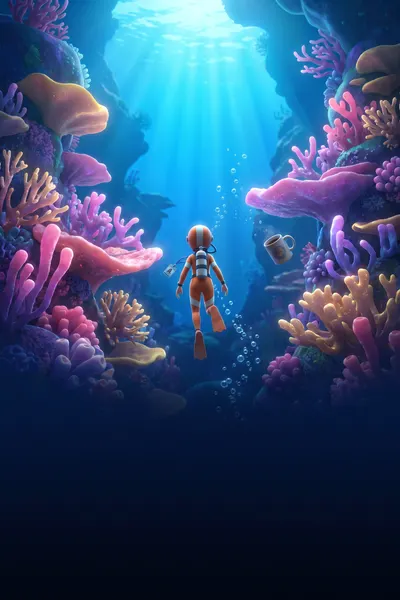
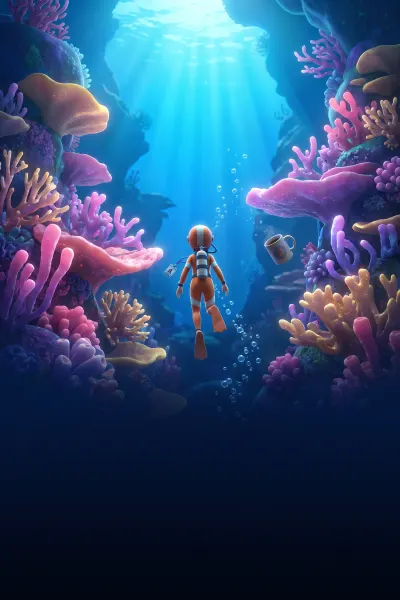
Give each premiere its own room from its poster
Every film was revealed on the same brown stage. Each premiere now sits on
a pre-blurred colour wash of its own poster, with an accent colour driving
the title chip, star name, poster glow, searchlights and projector beam.
scripts/poster-assets.mjs derives thumbnails, backdrops and accents, so a
redone poster only needs the script re-run.

diff --git a/src/app/screen/screen.css b/src/app/screen/screen.css
@@ -336,13 +336,36 @@
 
 /* ------------------------------------------------------------- premiere */
 .premiere { position: absolute; inset: 0; background: radial-gradient(ellipse at 30% 50%, #2a1512, var(--night) 70%); }
+.ambient {
+  position: absolute;
+  inset: -6%;
+  background-size: cover;
+  background-position: center;
+  animation: ambient-in 2.4s 1.7s ease both, ambient-drift 26s 1.7s ease-in-out infinite alternate;
+}
+/* keeps the billing legible over any palette: darker on the text side and at the edges */
+.ambient::after {
+  content: "";
+  position: absolute;
+  inset: 0;
+  background:
+    linear-gradient(90deg, rgba(8, 5, 4, 0.2) 0%, rgba(8, 5, 4, 0.45) 38%, rgba(8, 5, 4, 0.6) 100%),
+    radial-gradient(ellipse at 50% 50%, transparent 45%, rgba(0, 0, 0, 0.5) 100%);
+}
+@keyframes ambient-in {
+  from { opacity: 0; }
+}
+@keyframes ambient-drift {
+  from { transform: scale(1) translate(0, 0); }
+  to { transform: scale(1.08) translate(-1.5%, 1%); }
+}
 /* premiere-night searchlights behind everything */
 .spot {
   position: absolute;
   bottom: -30%;
   width: 20%;
   height: 170%;
-  background: linear-gradient(0deg, rgba(244, 210, 122, 0.3), transparent 75%);
+  background: linear-gradient(0deg, color-mix(in srgb, var(--accent, #f4d27a) 32%, transparent), transparent 75%);
   transform-origin: 50% 100%;
   filter: blur(14px);
   mix-blend-mode: screen;
@@ -404,7 +427,7 @@
   border-radius: 14px;
   overflow: hidden;
   background: var(--velvet);
-  box-shadow: 0 50px 120px rgba(0, 0, 0, 0.8), 0 0 0 6px var(--gold), 0 0 90px rgba(226, 181, 68, 0.35);
+  box-shadow: 0 50px 120px rgba(0, 0, 0, 0.8), 0 0 0 6px var(--gold), 0 0 110px color-mix(in srgb, var(--accent, var(--gold)) 45%, transparent);
   animation: poster-in 1.3s 2s cubic-bezier(0.15, 0.9, 0.25, 1) both, poster-float 9s 3.3s ease-in-out infinite alternate;
 }
 @keyframes poster-float {
@@ -449,11 +472,11 @@
 @keyframes bill-in {
   from { opacity: 0; transform: translateY(50px); }
 }
-.billing .after { animation-delay: 2.7s; display: inline-block; font-family: var(--display); text-transform: uppercase; letter-spacing: 0.22em; font-size: 28px; font-weight: 700; color: var(--night); background: var(--gold); padding: 6px 18px; border-radius: 6px; }
+.billing .after { animation-delay: 2.7s; display: inline-block; font-family: var(--display); text-transform: uppercase; letter-spacing: 0.22em; font-size: 28px; font-weight: 700; color: var(--night); background: var(--accent, var(--gold)); padding: 6px 18px; border-radius: 6px; }
 .billing h2 { animation: none; margin: 30px 0 0; font-family: var(--display); font-weight: 900; text-transform: uppercase; font-size: 150px; line-height: 0.88; color: var(--cream); text-shadow: 0 8px 0 rgba(0, 0, 0, 0.45); text-wrap: balance; }
 .billing .tagline { animation-delay: 3.4s; margin: 26px 0 0; font-style: italic; font-size: 44px; line-height: 1.2; color: var(--cream); max-width: 900px; }
 .billing .starring { animation-delay: 3.7s; margin: 36px 0 0; font-style: italic; font-size: 52px; color: var(--ink-soft); }
-.billing .starring b { display: block; font-style: normal; font-weight: 600; font-size: 84px; line-height: 1.05; color: var(--gold-2); }
+.billing .starring b { display: block; font-style: normal; font-weight: 600; font-size: 84px; line-height: 1.05; color: var(--accent, var(--gold-2)); }
 .billing .release { animation-delay: 4.1s; margin: 40px 0 0; font-family: var(--display); text-transform: uppercase; letter-spacing: 0.16em; font-size: 30px; color: var(--ink-soft); }
 .billing .release b { color: var(--cream); }
 
@@ -522,6 +545,7 @@
 }
 @media (prefers-reduced-motion: reduce) {
   .bigposter, .foil, .spot { animation-name: phase-in; animation-iteration-count: 1; }
+  .ambient { animation: ambient-in 1s ease both; }
   .phase.weave { animation: phase-in 0.7s ease both; }
   .damage { display: none; }
 }

diff --git a/src/components/screen/Screen.tsx b/src/components/screen/Screen.tsx
@@ -4,6 +4,7 @@ import { useEffect, useEffectEvent, useMemo, useRef, useState } from "react";
 import { Bulbs } from "@/components/Bulbs";
 import { Curtains } from "@/components/Curtains";
 import { artClass, films, firstName, pad2, type Film } from "@/data/season";
+import posterColors from "@/data/poster-colors.json";
 import { premiereLine, showCues } from "@/data/vo";
 import * as sfx from "@/lib/sfx";
 import { say, setVoMuted, stopVo } from "@/lib/vo";
@@ -109,7 +110,7 @@ const FILM_PHASES = new Set<string>(["leader", "ident", "title", "trailer", "pre
  * resolution and stretched — it is all soft light, and the projector laptop's
  * integrated GPU has better things to do.
  */
-function Beam() {
+function Beam({ tint = "hsl(43 85% 72%)" }: { tint?: string }) {
   const ref = useRef<HTMLCanvasElement>(null);
   useEffect(() => {
     const cv = ref.current;
@@ -135,8 +136,9 @@ function Beam() {
     const draw = (t: number) => {
       g.clearRect(0, 0, W, H);
       const cone = g.createRadialGradient(ox, oy, 0, ox, oy, W * 1.1);
-      cone.addColorStop(0, "rgba(244,210,122,0.20)");
-      cone.addColorStop(1, "rgba(244,210,122,0)");
+      // "hsl(h s% l%)" → same colour with alpha
+      cone.addColorStop(0, tint.replace(")", " / 0.2)"));
+      cone.addColorStop(1, tint.replace(")", " / 0)"));
       g.fillStyle = cone;
       g.beginPath();
       g.moveTo(ox, oy);
@@ -161,7 +163,7 @@ function Beam() {
     };
     raf = requestAnimationFrame(draw);
     return () => cancelAnimationFrame(raf);
-  }, []);
+  }, [tint]);
   return <canvas className="beamfx" ref={ref} aria-hidden="true" />;
 }
 
@@ -426,9 +428,14 @@ function Premiere({ film }: { film: Film }) {
   useCue(sfx.snap, 1050); // the clapper arm lands
   useCue(sfx.reveal, 1900); // the poster swings in
   useCue(() => say(premiereLine(film)), 3300);
+  const accent = (posterColors as Record<string, string>)[pad2(film.no)];
   return (
-    <div className="premiere">
-      <Beam />
+    <div className="premiere" style={{ "--accent": accent } as React.CSSProperties}>
+      {/* each film brings its own room: a soft wash of its poster's colours (pre-blurred by scripts/poster-assets.mjs) */}
+      {film.poster && (
+        <div className="ambient" style={{ backgroundImage: `url(${film.poster.replace(".webp", "-bg.webp")})` }} />
+      )}
+      <Beam tint={accent} />
       <div className="cuemark" />
       <div className="spot s1" />
       <div className="spot s2" />
